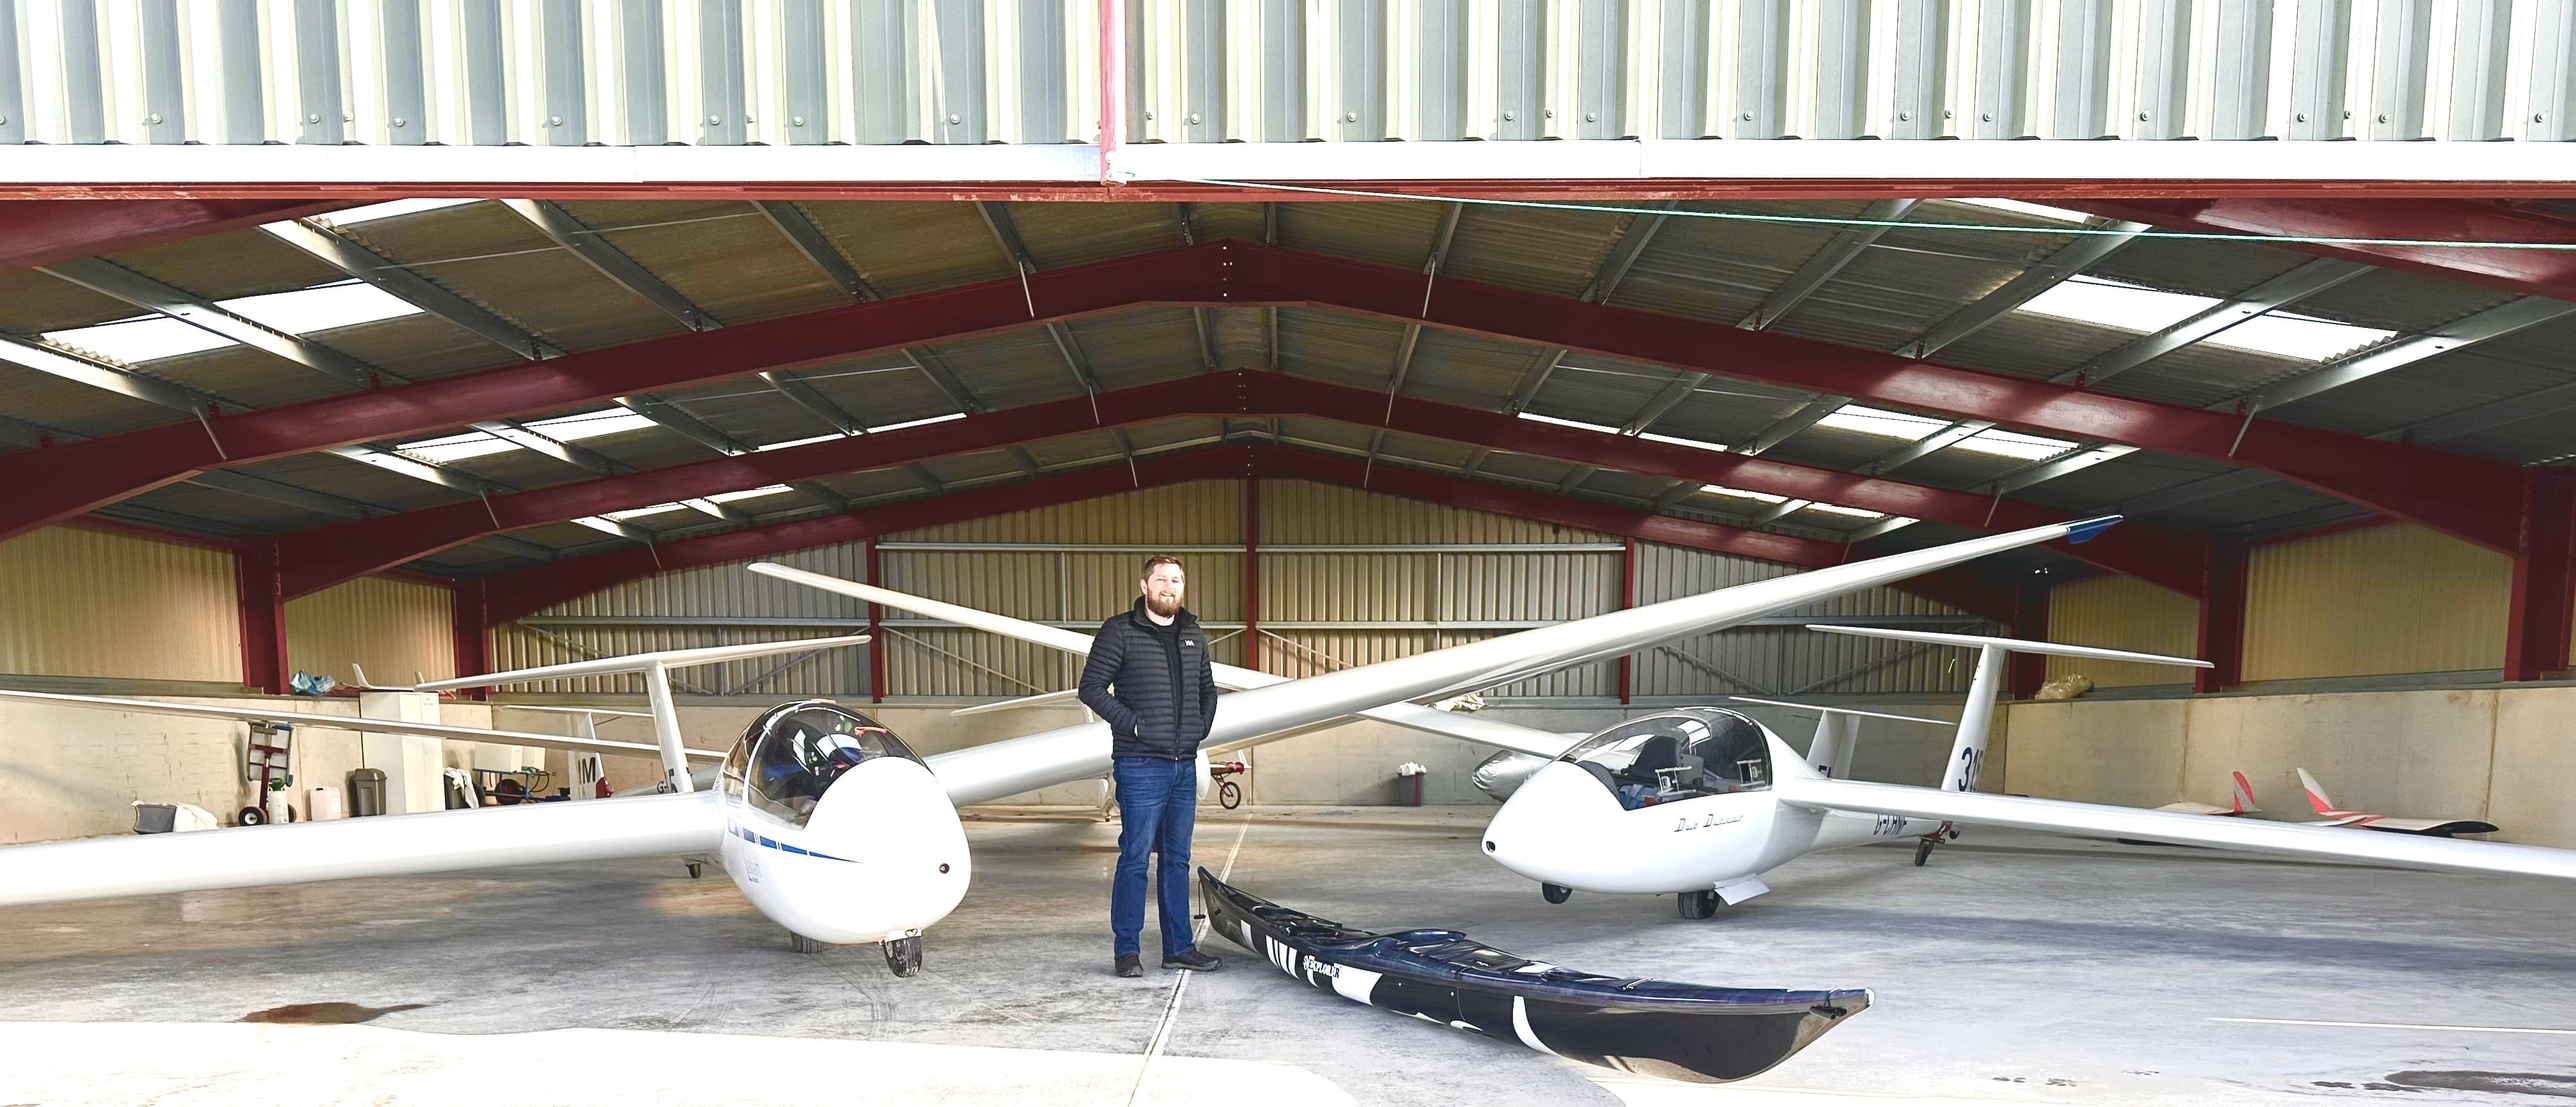
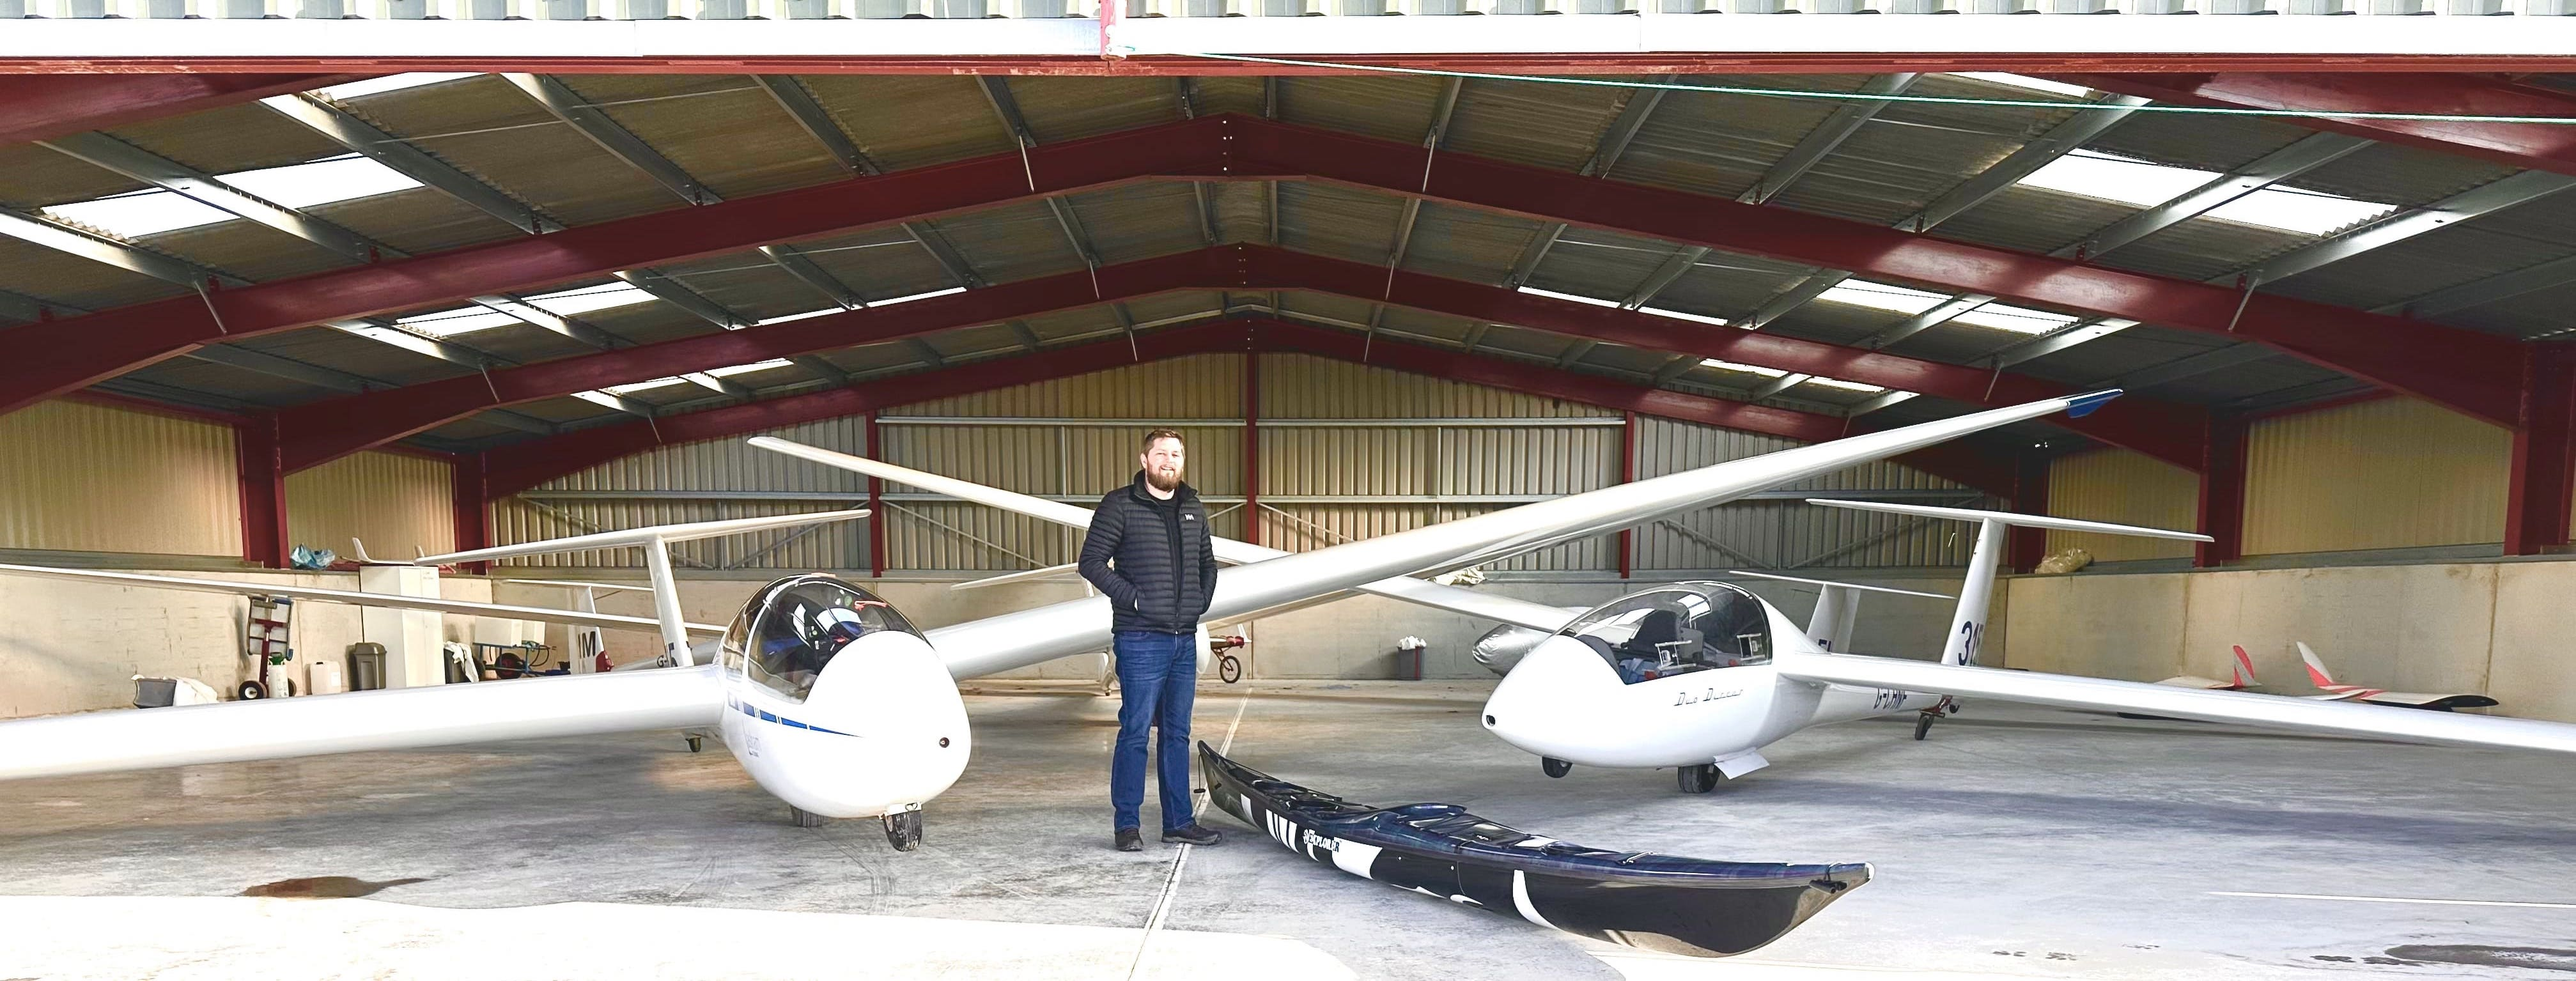
image mod

diff --git a/index.html b/index.html
@@ -540,7 +540,7 @@
 
 
 
-            <section class="cover imagebg text-center height-60" data-overlay="3">
+            <section class="cover imagebg text-center height-70" data-overlay="3">
                 <div class="background-image-holder"><img alt="background" src="photos/IMG_2157.jpg"></div>
                 <div class="container pos-vertical-center">
                     <!--<div class="row">
